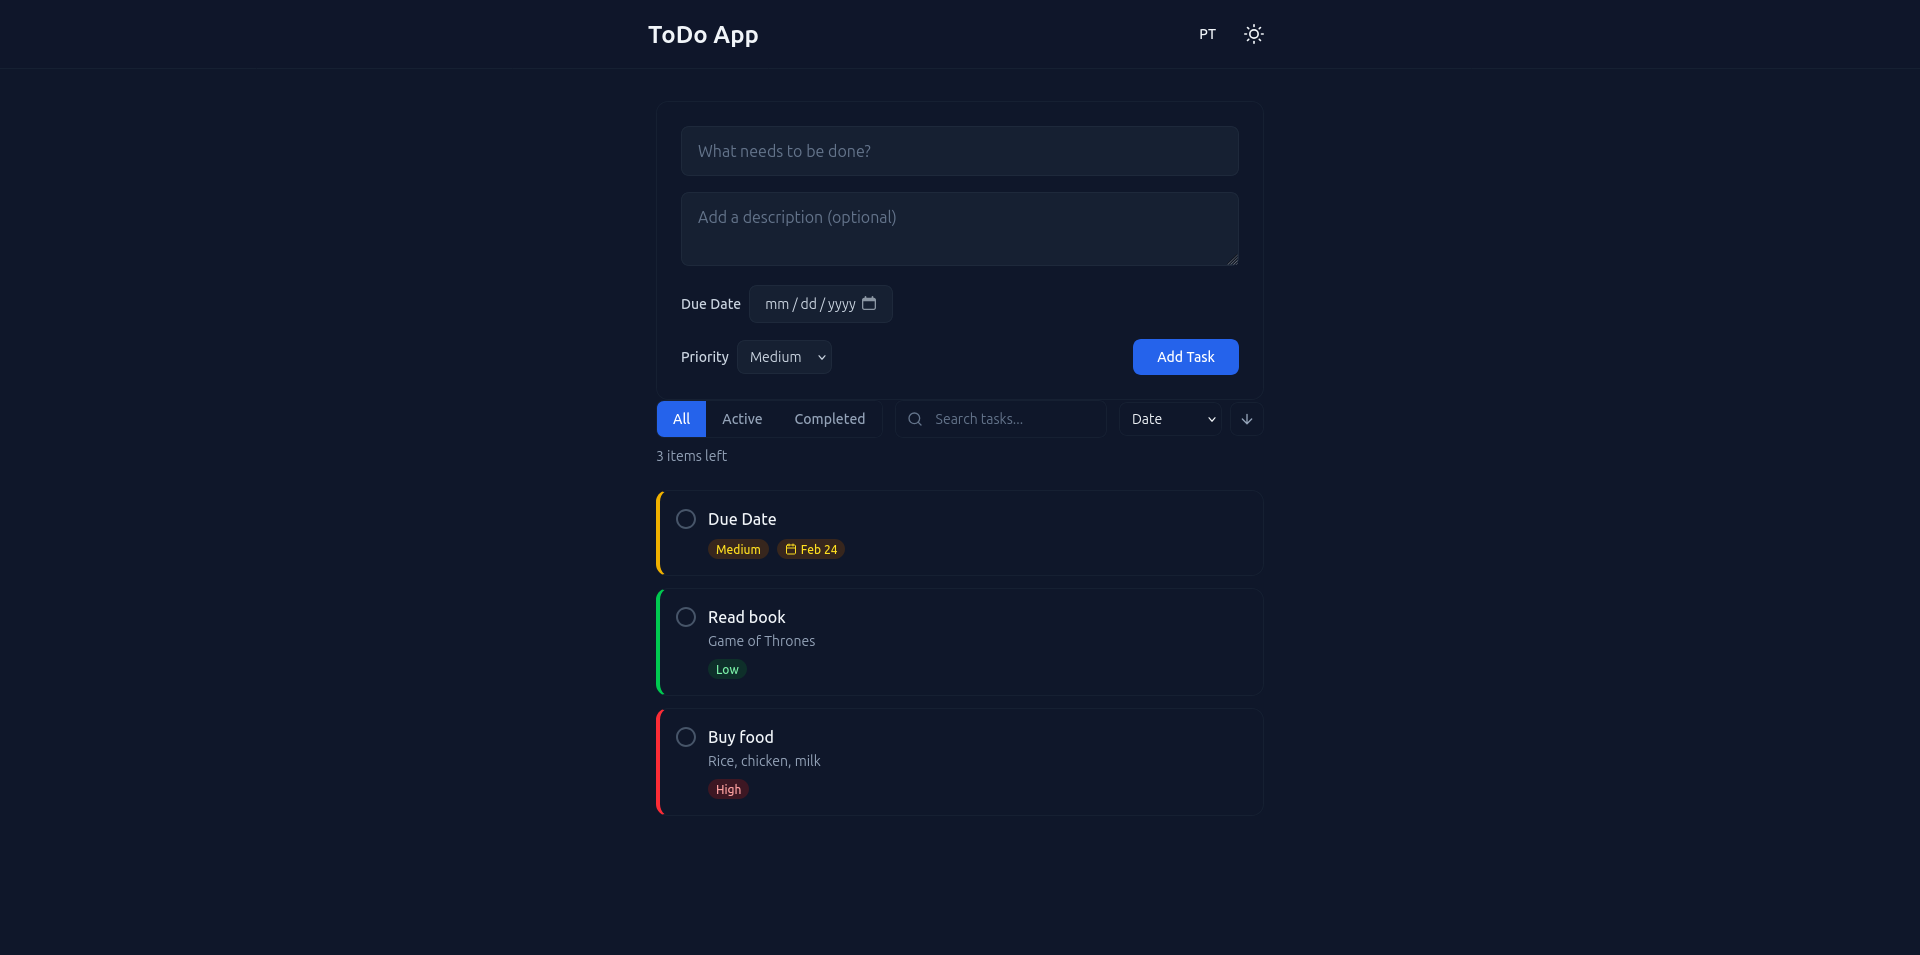
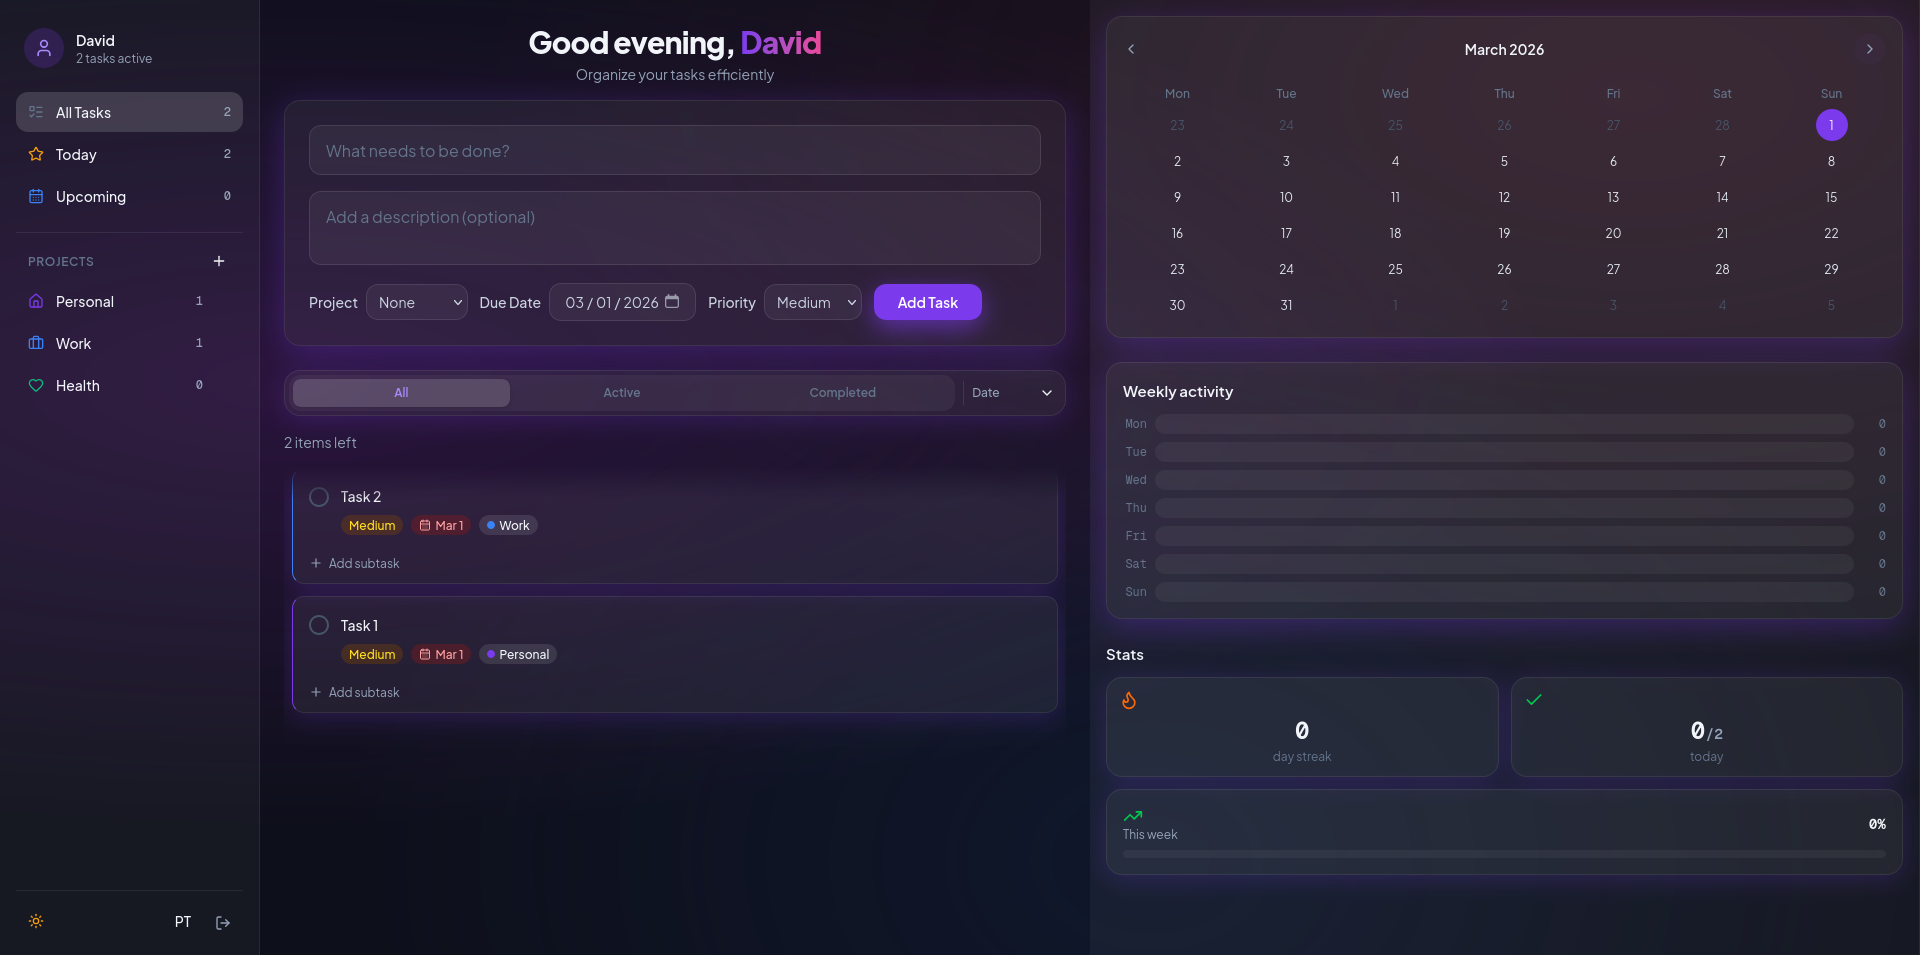
docs: Update screenshots to include mobile dark and light versions, refresh existing ones, remove outdated images, and refine README content and sidebar footer layout.

diff --git a/src/app/shared/sidebar/sidebar.component.html b/src/app/shared/sidebar/sidebar.component.html
@@ -100,17 +100,19 @@
   <div class="flex-1"></div>
 
   <!-- FOOTER: THEME + LANGUAGE -->
-  <div class="border-t border-border-glass dark:border-border-glass-dark pt-3 flex items-center gap-2">
+  <div class="border-t border-border-glass dark:border-border-glass-dark pt-3 flex items-center gap-2 justify-between">
     <app-theme-toggle variant="icon-label"></app-theme-toggle>
 
-    <button (click)="switchLanguage()"
-      class="px-3 py-2 rounded-xl text-sm font-medium transition-all duration-200 hover:bg-white/50 dark:hover:bg-white/10">
-      {{ i18nService.currentLang() === 'en' ? 'PT' : 'EN' }}
-    </button>
+    <div class="flex items-end">
+      <button (click)="switchLanguage()"
+        class="px-3 py-2 rounded-xl text-sm font-medium transition-all duration-200 hover:bg-white/50 dark:hover:bg-white/10">
+        {{ i18nService.currentLang() === 'en' ? 'PT' : 'EN' }}
+      </button>
 
-    <button (click)="authService.logout()"
-      class="px-3 py-2 rounded-xl text-sm transition-all duration-200 hover:bg-white/50 dark:hover:bg-white/10">
-      <i-lucide name="log-out" class="w-4 h-4 text-surface-400"></i-lucide>
-    </button>
+      <button (click)="authService.logout()"
+        class="px-3 py-2 rounded-xl text-sm transition-all duration-200 hover:bg-white/50 dark:hover:bg-white/10">
+        <i-lucide name="log-out" class="w-4 h-4 text-surface-400"></i-lucide>
+      </button>
+    </div>
   </div>
 </nav>

diff --git a/README.md b/README.md
@@ -6,12 +6,15 @@ A modern, full-featured task management application built as a technical assessm
 
 ![Light Mode](screenshots/light.png)
 ![Dark Mode](screenshots/dark.png)
+![Mobile Light Mode](screenshots/mobile-light.png)
+![Mobile Dark Mode](screenshots/mobile-dark.png)
 
 ---
 
 ## Features
 
 ### Task Management
+
 - Full CRUD — create, edit, delete, and toggle tasks
 - Subtasks with inline add/edit, progress bar, and individual completion
 - Priority levels (Low / Medium / High) with color-coded badges
@@ -19,17 +22,20 @@ A modern, full-featured task management application built as a technical assessm
 - Assign tasks to projects
 
 ### Organisation & Filtering
+
 - Filter by view: All, Today, Upcoming, by Project, or by calendar date
 - Filter by status: All / Active / Completed
 - Full-text search across title and description
 - Sort by creation date, priority, or due date (ascending/descending)
 
 ### Projects
+
 - Create, edit, and delete projects with a custom name, color, and icon
 - Project task counters in the sidebar
 - Project filter chips in the mobile Home tab
 
 ### Interface
+
 - Responsive 3-column layout: Sidebar + Main + Right Panel (desktop), 2-column (tablet), single-column with Bottom Nav (mobile)
 - Glassmorphism design with mesh gradient background
 - Personalized time-based greeting (Good morning / afternoon / evening)
@@ -38,28 +44,33 @@ A modern, full-featured task management application built as a technical assessm
 - Fade mask on the scrollable task list
 
 ### Right Panel (desktop / Calendar tab on mobile)
+
 - Mini calendar (Monday-first, dot indicators for days with tasks, date filter on click)
 - Weekly activity bar chart with relative rates and locale-aware day labels
 - Stats cards: daily streak 🔥, today's completed/total, weekly completion rate
 
 ### Mobile
+
 - Bottom navigation with 5 tabs: Home, Search, FAB (+), Calendar, Profile
 - Bottom Sheet for creating tasks (spring animation)
 - Profile tab: avatar upload, inline name editing, password change, theme and language settings
 
 ### i18n
+
 - English and Portuguese (PT-PT)
 - Runtime language switching — no rebuild required
 - Locale-aware calendar: month names and day abbreviations via `Intl.DateTimeFormat`
 - All UI strings, validation messages, and placeholders translated
 
 ### Data & Auth
+
 - Mock authentication with per-user task isolation (namespaced localStorage keys)
 - Route guards (`authGuard`, `guestGuard`) redirect unauthenticated users
 - Persistent data via localStorage — tasks survive page reloads
 - Avatar stored as base64 via FileReader
 
 ### Quality
+
 - Zoneless change detection (`provideZonelessChangeDetection`) — no Zone.js
 - `ChangeDetectionStrategy.OnPush` on every component
 - Timer leak prevention with `DestroyRef` + `Set<ReturnType<typeof setTimeout>>`
@@ -72,15 +83,15 @@ A modern, full-featured task management application built as a technical assessm
 
 ## Tech Stack
 
-| Technology | Version | Purpose |
-|---|---|---|
-| Angular | 21 | Frontend framework |
-| TypeScript | Strict mode | Type safety |
-| TailwindCSS | v4 | Utility-first CSS with `@theme` design tokens |
-| Angular Signals | Built-in | Reactive state — no NgRx, no RxJS |
-| Angular Animations | Built-in | Declarative enter/leave transitions |
-| Lucide Angular | Latest | Icon library (tree-shaken via `.pick({})`) |
-| Vitest | Built-in | Unit testing |
+| Technology         | Version     | Purpose                                       |
+| ------------------ | ----------- | --------------------------------------------- |
+| Angular            | 21          | Frontend framework                            |
+| TypeScript         | Strict mode | Type safety                                   |
+| TailwindCSS        | v4          | Utility-first CSS with `@theme` design tokens |
+| Angular Signals    | Built-in    | Reactive state — no NgRx, no RxJS             |
+| Angular Animations | Built-in    | Declarative enter/leave transitions           |
+| Lucide Angular     | Latest      | Icon library (tree-shaken via `.pick({})`)    |
+| Vitest             | Built-in    | Unit testing                                  |
 
 ---
 
@@ -119,17 +130,17 @@ AppComponent
 
 ### Smart vs Presentational components
 
-| Component | Type | Responsibility |
-|---|---|---|
-| `TodoPageComponent` | Smart | Orchestrates all state, injects services |
-| `SidebarComponent` | Smart | Reads filter/project signals, manages project form |
-| `TodoFiltersComponent` | Smart | Directly updates `TodoService` filter |
-| `RightPanelComponent` | Smart | Calendar state, reads todoService signals |
-| `TodoFormComponent` | Presentational | Receives inputs, emits outputs |
-| `TodoItemComponent` | Presentational | Displays a single todo, emits events |
-| `TodoListComponent` | Presentational | Renders the list with stagger animation |
-| `ProjectFormComponent` | Presentational | Reusable project form (sidebar & sheet variant) |
-| `ThemeToggleComponent` | Presentational | Reusable theme button (3 visual variants) |
+| Component              | Type           | Responsibility                                     |
+| ---------------------- | -------------- | -------------------------------------------------- |
+| `TodoPageComponent`    | Smart          | Orchestrates all state, injects services           |
+| `SidebarComponent`     | Smart          | Reads filter/project signals, manages project form |
+| `TodoFiltersComponent` | Smart          | Directly updates `TodoService` filter              |
+| `RightPanelComponent`  | Smart          | Calendar state, reads todoService signals          |
+| `TodoFormComponent`    | Presentational | Receives inputs, emits outputs                     |
+| `TodoItemComponent`    | Presentational | Displays a single todo, emits events               |
+| `TodoListComponent`    | Presentational | Renders the list with stagger animation            |
+| `ProjectFormComponent` | Presentational | Reusable project form (sidebar & sheet variant)    |
+| `ThemeToggleComponent` | Presentational | Reusable theme button (3 visual variants)          |
 
 ---
 
@@ -288,6 +299,6 @@ The app deploys automatically to GitHub Pages on every push to the `development`
 
 The app uses mock authentication. You can register any email/password, or use:
 
-| Email | Password |
-|---|---|
+| Email           | Password  |
+| --------------- | --------- |
 | `demo@demo.com` | `demo123` |
